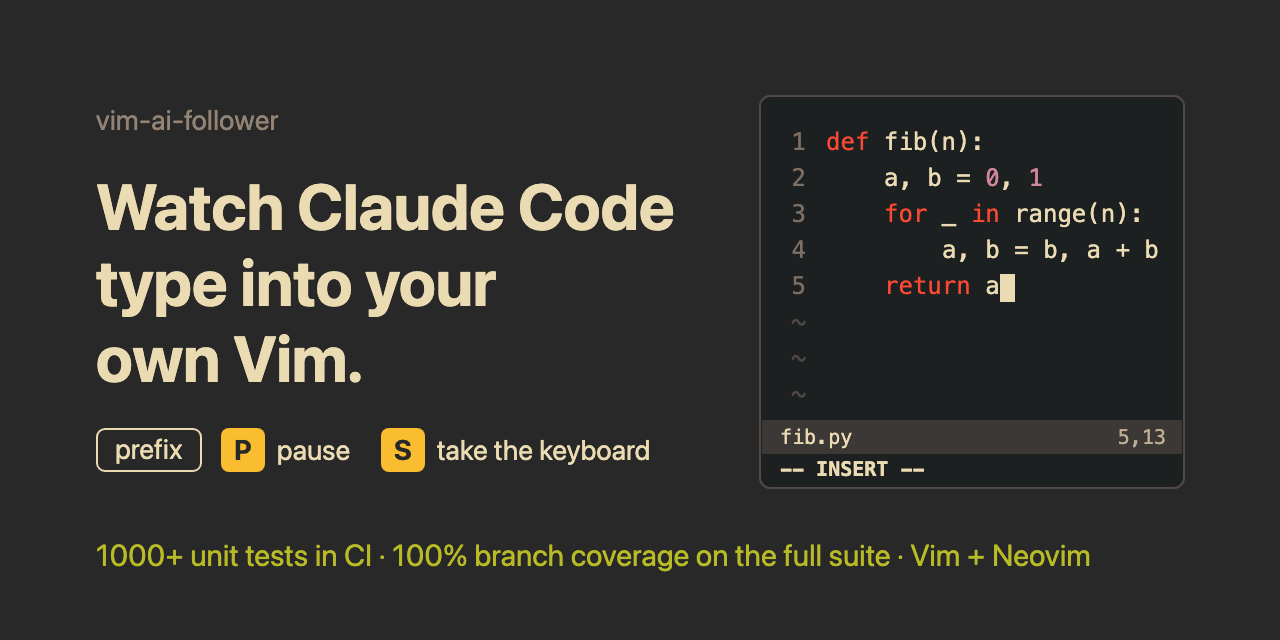
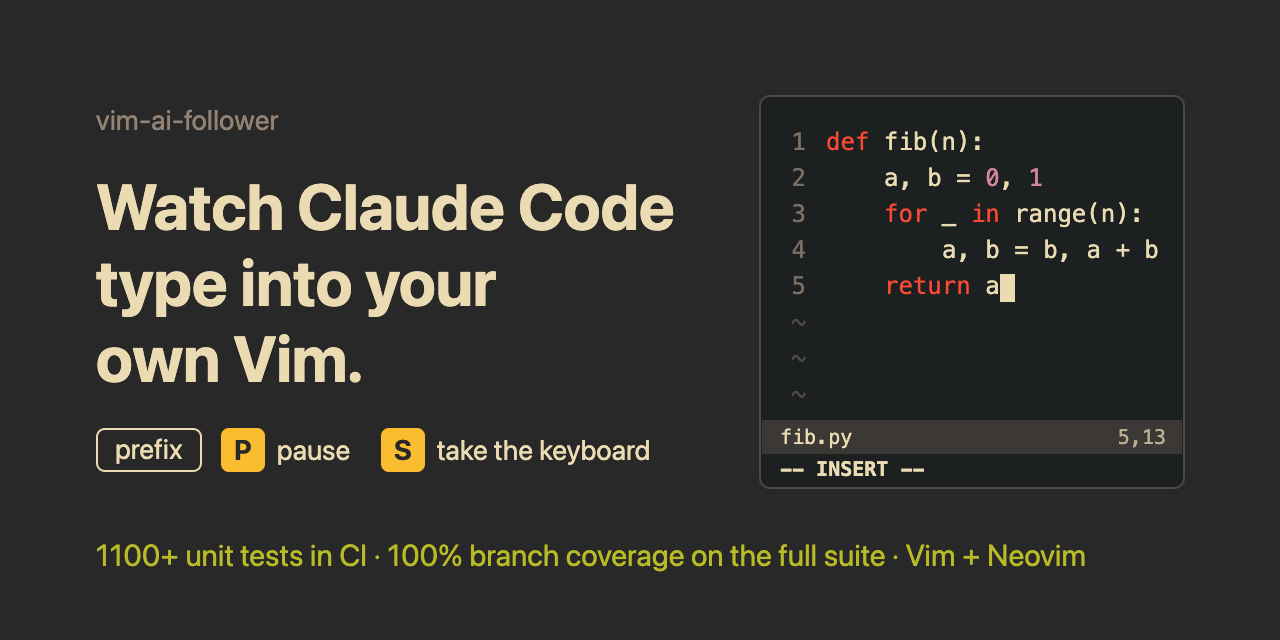
docs: the social preview's proof line is under the facts check (1100+)

Changed region(s): [[0.0625, 0.8438, 0.8438, 0.9062]]

diff --git a/tests/scripts/test_check_readme_facts.py b/tests/scripts/test_check_readme_facts.py
@@ -215,7 +215,41 @@ def test_main_exit_codes(tmp_path: Path, capsys: pytest.CaptureFixture[str]) -> 
         path = tmp_path / name
         path.parent.mkdir(parents=True, exist_ok=True)
         path.write_text(good)
+    for name in _crf().PREVIEW_FILES:
+        path = tmp_path / name
+        path.parent.mkdir(parents=True, exist_ok=True)
+        path.write_text("<svg><title>1+ unit tests · 100% branch</title></svg>")
     assert _crf().main(["x", "--junit", str(report), "--repo", str(tmp_path)]) == 0
     (tmp_path / "README.md").write_text(_block("1+ tests · 95% · v0.2.8"))
     assert _crf().main(["x", "--junit", str(report), "--repo", str(tmp_path)]) == 1
     assert "coverage must read" in capsys.readouterr().err
+    (tmp_path / "README.md").write_text(good)
+    (tmp_path / _crf().PREVIEW_FILES[0]).write_text("<svg><title>9+ unit tests</title></svg>")
+    assert _crf().main(["x", "--junit", str(report), "--repo", str(tmp_path)]) == 1
+    assert "social-preview.svg: claims 9+" in capsys.readouterr().err
+
+
+def _svg(label: str, title: str, text: str) -> str:
+    return f'<svg aria-label="{label}"><title>{title}</title><text>{text}</text></svg>'
+
+
+def test_the_social_preview_must_carry_a_current_test_count() -> None:
+    module = _crf()
+    real = module.Facts(tests=1125, coverage=100, version="0.3.0")
+    stale = _svg("x 700+ unit tests", "x 700+ unit tests", "700+ unit tests")
+    assert module.preview_problems("assets/site/social-preview.svg", stale, real)
+
+
+def test_every_count_in_the_preview_must_agree() -> None:
+    module = _crf()
+    real = module.Facts(tests=1125, coverage=100, version="0.3.0")
+    mixed = _svg("1100+ unit tests", "1100+ unit tests", "1000+ unit tests")
+    assert module.preview_problems("assets/site/social-preview.svg", mixed, real)
+
+
+def test_a_current_preview_passes() -> None:
+    module = _crf()
+    real = module.Facts(tests=1125, coverage=100, version="0.3.0")
+    line = "1100+ unit tests · 100% branch"
+    good = _svg(line, line, line)
+    assert module.preview_problems("assets/site/social-preview.svg", good, real) == []

diff --git a/scripts/check_readme_facts.py b/scripts/check_readme_facts.py
@@ -34,6 +34,7 @@ FACT_FILES = (
     "guide/en/llms.txt",
 )
 LINK_FILES = ("README.md", "README.pt.md")
+PREVIEW_FILES = ("assets/site/social-preview.svg",)
 STALE_BAND = 100
 
 _BLOCK = re.compile(r"<!-- facts -->(.*?)<!-- /facts -->", re.DOTALL)
@@ -108,6 +109,36 @@ def fact_problems(name: str, text: str, real: Facts) -> list[str]:
     return problems
 
 
+def preview_problems(name: str, text: str, real: Facts) -> list[str]:
+    counts = {_number(match) for match in _TESTS.findall(text)}
+    if not counts:
+        return [f'{name}: no test count ("N+ unit tests")']
+    if len(counts) > 1:
+        return [
+            f"{name}: its test counts disagree ({sorted(counts)}):"
+            " title, aria-label and text must match"
+        ]
+    claimed = counts.pop()
+    problems: list[str] = []
+    if claimed > real.tests:
+        problems.append(
+            f"{name}: claims {claimed}+ tests but there are {real.tests} — a false claim"
+        )
+    elif real.tests - claimed > STALE_BAND:
+        problems.append(
+            f"{name}: claims {claimed}+ tests, real {real.tests} — stale by more than {STALE_BAND}"
+        )
+    for coverage in re.findall(r"(\d+)% branch", text):
+        if int(coverage) != real.coverage:
+            problems.append(f"{name}: coverage must read {real.coverage}% (the CI gate)")
+    if problems:
+        problems.append(
+            f"{name}: re-render assets/site/social-preview.png and re-upload it"
+            " (GitHub → Settings → Social preview)"
+        )
+    return problems
+
+
 def slug(heading: str) -> str:
     text = re.sub(r"\[([^\]]*)\]\([^)]*\)", r"\1", heading)
     text = text.strip().lower()
@@ -160,6 +191,8 @@ def main(argv: list[str]) -> int:
     problems: list[str] = []
     for name in FACT_FILES:
         problems += fact_problems(name, (repo / name).read_text(), real)
+    for name in PREVIEW_FILES:
+        problems += preview_problems(name, (repo / name).read_text(), real)
     for name in LINK_FILES:
         problems += link_problems(repo, name)
     for problem in problems:
